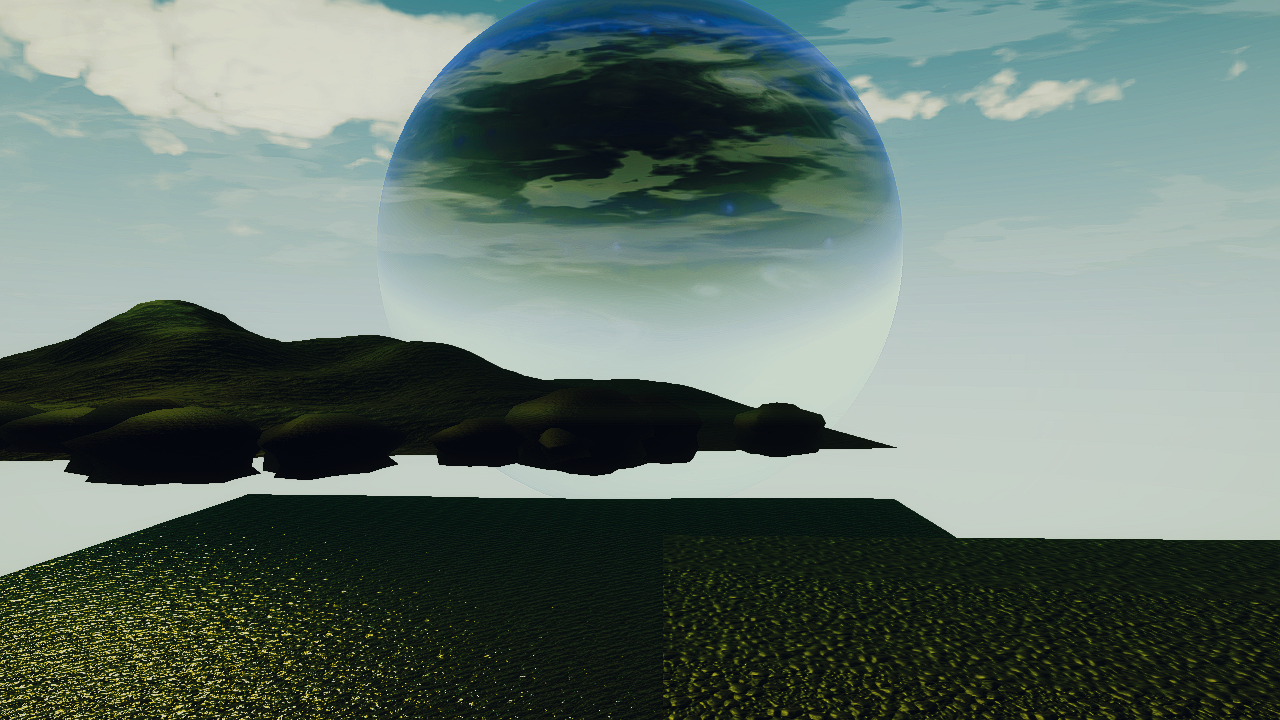
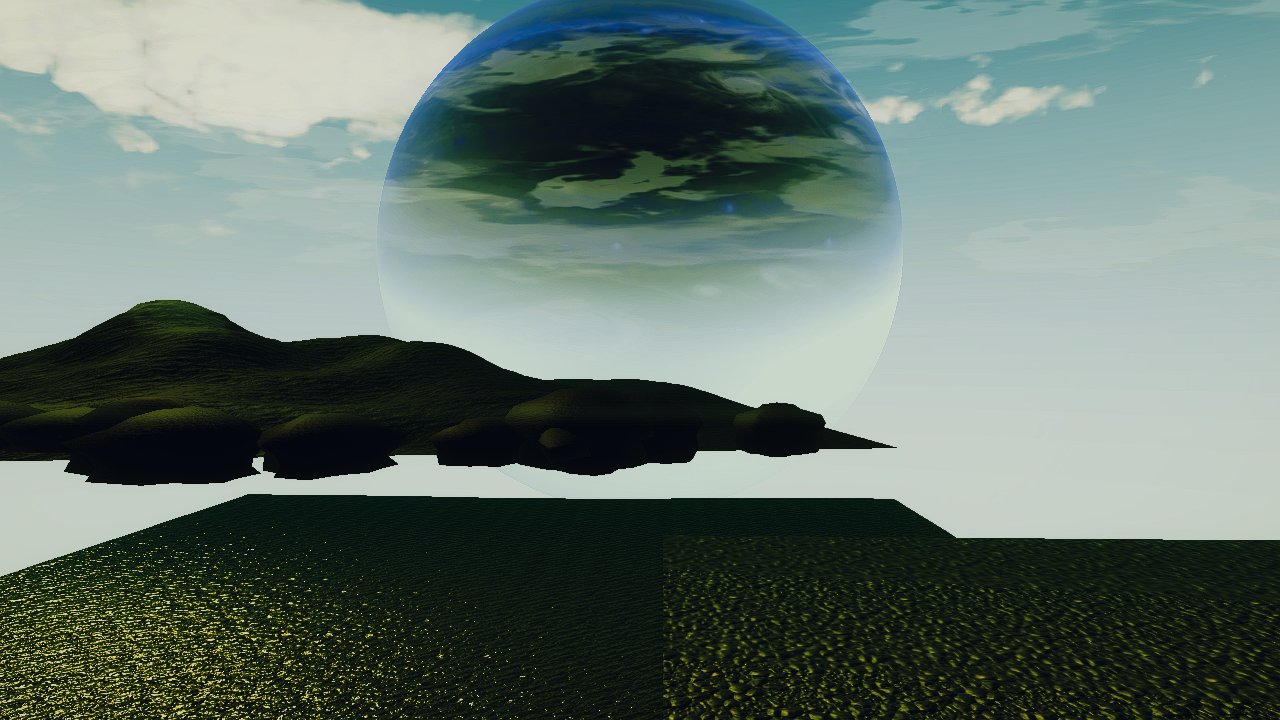
chore: checkpoint runtime dump updates

diff --git a/Tools/AppliedLorePublicationGuard.py b/Tools/AppliedLorePublicationGuard.py
@@ -6,10 +6,14 @@ import re
 import sys
 from pathlib import Path
 
-TARGET_LOCALES = (
-    "en_US", "ru_RU", "ja_JP", "zh_CN", "fr_FR", "es_ES", "de_DE",
-    "pl_PL", "uk_UA", "ar_SA", "id_ID", "ko_KR", "he_IL", "pt_BR", "nl_NL"
-)
+try:
+    from AppliedLoreImporter import TARGET_LOCALES as IMPORTED_TARGET_LOCALES
+except ModuleNotFoundError:
+    from Tools.AppliedLoreImporter import TARGET_LOCALES as IMPORTED_TARGET_LOCALES
+
+
+TARGET_LOCALES = tuple(IMPORTED_TARGET_LOCALES)
+INDEX_PAGE_NAMES = {"INDEX.md"}
 
 REQUIRED_KEYS = [
     "packet_id", "release_set_id", "article_id", "unlock_id",
@@ -66,9 +70,27 @@ def extract_frontmatter(content: str) -> tuple[dict, str]:
             fm[k.strip()] = v.strip().strip("'\"")
     return fm, body
 
+def parse_packet_globs(packet_glob: str) -> tuple[str, ...]:
+    return tuple(part.strip() for part in packet_glob.split(",") if part.strip())
+
+def matches_packet_glob(path: Path, packet_id: str, patterns: tuple[str, ...]) -> bool:
+    if not patterns:
+        return True
+
+    candidates = [packet_id, path.stem]
+    for pattern in patterns:
+        for candidate in candidates:
+            if candidate and fnmatch.fnmatch(candidate, pattern):
+                return True
+    return False
+
+def strip_generated_comments(text: str) -> str:
+    return re.sub(r"<!--.*?-->", "", text, flags=re.DOTALL).strip()
+
 def run_guard(root: Path, packet_glob: str, json_output: bool):
     counters = Counters()
     messages = []
+    packet_globs = parse_packet_globs(packet_glob)
     
     def log_fail(msg, counter_attr=None):
         if counter_attr:
@@ -90,8 +112,12 @@ def run_guard(root: Path, packet_glob: str, json_output: bool):
         files.extend(list(site_path.rglob("*.md")))
         
     packets = {}
+    packet_surface_locales = {}
     
     for f in files:
+        if f.name in INDEX_PAGE_NAMES:
+            continue
+
         rel = f.relative_to(root)
         try:
             content = f.read_text(encoding="utf-8")
@@ -102,14 +128,8 @@ def run_guard(root: Path, packet_glob: str, json_output: bool):
         fm, body = extract_frontmatter(content)
         packet_id = fm.get("packet_id", "")
         
-        if packet_glob and packet_id:
-            matched = False
-            for glob in packet_glob.split(','):
-                if fnmatch.fnmatch(packet_id, glob.strip()):
-                    matched = True
-                    break
-            if not matched:
-                continue
+        if not matches_packet_glob(f, packet_id, packet_globs):
+            continue
             
         counters.files += 1
         
@@ -142,12 +162,14 @@ def run_guard(root: Path, packet_glob: str, json_output: bool):
         surface = "external_site" if "external_site" in str(rel) else "in_game_wiki"
         if packet_id:
             packets.setdefault(packet_id, {}).setdefault(locale, {})[surface] = (fm, body, rel)
+            packet_surface_locales.setdefault(packet_id, {}).setdefault(surface, set()).add(locale)
 
-    for packet_id, locales_map in packets.items():
-        if "en_US" in locales_map:
-            missing_locales = [l for l in TARGET_LOCALES if l not in locales_map]
-            if missing_locales:
-                log_fail(f"Packet {packet_id}: Missing TARGET_LOCALES: {missing_locales}", "locale_gaps")
+    for packet_id, surface_map in packet_surface_locales.items():
+        for surface, locales in surface_map.items():
+            if "en_US" in locales:
+                missing_locales = [l for l in TARGET_LOCALES if l not in locales]
+                if missing_locales:
+                    log_fail(f"Packet {packet_id} surface {surface}: Missing TARGET_LOCALES: {missing_locales}", "locale_gaps")
 
     for packet_id, locales_map in packets.items():
         for locale, surfaces in locales_map.items():
@@ -155,7 +177,9 @@ def run_guard(root: Path, packet_glob: str, json_output: bool):
                 site_fm, site_body, site_rel = surfaces["external_site"]
                 wiki_fm, wiki_body, wiki_rel = surfaces["in_game_wiki"]
                 
-                if site_body and site_body == wiki_body:
+                site_body_norm = strip_generated_comments(site_body)
+                wiki_body_norm = strip_generated_comments(wiki_body)
+                if site_body_norm and site_body_norm == wiki_body_norm:
                     is_draft = ("draft" in site_fm.get("localization_status", "").lower() or 
                                 "draft" in wiki_fm.get("localization_status", "").lower())
                     if is_draft:

diff --git a/Assets/_Project/Scripts/Tools/WfcLaserCutRuntime.cs b/Assets/_Project/Scripts/Tools/WfcLaserCutRuntime.cs
@@ -24,6 +24,7 @@ namespace Hecton8.Tools
         private const int BlackBoxDumpHeaderBytes = 32;
         private const int WfcTelemetryEntrySizeBytes = 96;
         private const string DumpRelativePath = "Docs/AgentLogs/Dump_SHINOBU_225.bin";
+        private const string DumpPayloadLabel = "WfcLaserCutTelemetryDumpPayload";
         private const uint SourceHash = 0x544C5352u; // TLSR
         private const uint SparkSpeciesHash = 0x4C53504Bu; // LSPK
         private const byte TelemetryFlagCompleted = 1 << 0;
@@ -620,7 +621,11 @@ namespace Hecton8.Tools
             NativeArray<byte> payload = default;
             try
             {
-                payload = new NativeArray<byte>(byteCount, Allocator.Temp, NativeArrayOptions.ClearMemory);
+                payload = NativeFaultDumpWriter.CreateTransientPayload(
+                    byteCount,
+                    nameof(WfcLaserCutRuntime),
+                    DumpPayloadLabel,
+                    NativeArrayOptions.ClearMemory);
                 byte* destination = (byte*)NativeArrayUnsafeUtility.GetUnsafeBufferPointerWithoutChecks(payload);
                 int writeCursor = 0;
                 WriteUInt32LittleEndian(destination, ref writeCursor, BlackBoxDumpMagic);
@@ -650,8 +655,10 @@ namespace Hecton8.Tools
             }
             finally
             {
-                if (payload.IsCreated)
-                    payload.Dispose();
+                NativeFaultDumpWriter.DisposeTransientPayload(
+                    ref payload,
+                    nameof(WfcLaserCutRuntime),
+                    DumpPayloadLabel);
             }
         }
 

diff --git a/Assets/_Project/Scripts/Tools/LaserCutterDodRuntime.cs b/Assets/_Project/Scripts/Tools/LaserCutterDodRuntime.cs
@@ -22,6 +22,7 @@ namespace Hecton8.Tools
         private const int BlackBoxDumpHeaderBytes = 32;
         private const int LaserCutTelemetryEntrySizeBytes = 128;
         private const string DumpRelativePath = "Docs/AgentLogs/Dump_SHINOBU_225.bin";
+        private const string DumpPayloadLabel = "LaserCutterDodTelemetryDumpPayload";
         private const uint LaserGlowDecalDamageType = global::Hecton8.Visor.DynamicDecalMaterialHashes.Burn;
 
         private static IDataVault _dataVault;
@@ -1377,7 +1378,10 @@ namespace Hecton8.Tools
                 WriteUIntLittleEndian(header.Slice(28, 4), (uint)payloadBytes);
 
                 byte* source = (byte*)NativeArrayUnsafeUtility.GetUnsafeReadOnlyPtr(telemetry);
-                NativeArray<byte> payload = new NativeArray<byte>(totalBytes, Allocator.Temp, NativeArrayOptions.UninitializedMemory);
+                NativeArray<byte> payload = NativeFaultDumpWriter.CreateTransientPayload(
+                    totalBytes,
+                    nameof(LaserCutterDodRuntime),
+                    DumpPayloadLabel);
                 try
                 {
                     for (int i = 0; i < header.Length; i++)
@@ -1392,7 +1396,10 @@ namespace Hecton8.Tools
                 }
                 finally
                 {
-                    payload.Dispose();
+                    NativeFaultDumpWriter.DisposeTransientPayload(
+                        ref payload,
+                        nameof(LaserCutterDodRuntime),
+                        DumpPayloadLabel);
                 }
             }
             catch (IOException)

diff --git a/Docs/Reports/AssetSystem_20260605/ASSET_WORKER_BOARD_20260605.md b/Docs/Reports/AssetSystem_20260605/ASSET_WORKER_BOARD_20260605.md
@@ -24,7 +24,7 @@ This board is orchestration state, not Unity acceptance. It does not prove impor
 - Integrated Boyle, Mill, and Averroes static packets 21/22/23. They are owner routing packets only; no Unity/import/prefab/audio runtime proof was produced.
 - Local controller completed the token-failed matrix wave: material file technical properties, model import risk matrix, texture duplicate/hash matrix, and audio loudness/source dynamics matrix. Static CSV parse after integration: 29 files, 2094 rows, zero empty cells.
 - Local controller completed the static GUID reference graph: `Docs/AssetAudit/ASSET_GUID_REFERENCE_MATRIX_20260605.md/.csv`. CSV parses as 7420 rows.
-- Local controller completed active-route GUID triage: `Docs/AssetAudit/ASSET_GUID_ACTIVE_ROUTE_TRIAGE_20260605.md/.csv`. CSV parses as 800 rows. Current curated static CSV parse after GUID, P0 target-table, file-map, routing-synthesis, owner-packet-index, visual-reference critique, current visual-reference path continuity, VREF-to-owner requirement matrix, visual source promotion execution queue, h8_1475 shotlist/proof dependency graph, h8_1475 proof-tool integrity blocker routing, visual proof capture guardrail validation, visual reference-vs-current rejection matrix, premium approximation rename triage, audio P0 execution refinement, audio route owner matrix, audio mix-priority decision queue, audio critical cue coverage matrix, Batch31 channel-semantics decision queue, foam-contact source role decision queue, VFX DataVault source-context correction, VFX repair anchor map, Biolum black-box route decision, visual hero source coverage matrix, large source owner review, product-face execution refinement, waveform stats, static audio ledger, audio remediation matrix, and early owner packet map integration is 62 files, 14646 rows, zero empty cells. Sparse Batch31 import-intent CSV remains outside that zero-empty set.
+- Local controller completed active-route GUID triage: `Docs/AssetAudit/ASSET_GUID_ACTIVE_ROUTE_TRIAGE_20260605.md/.csv`. CSV parses as 800 rows. Current curated static CSV parse after GUID, P0 target-table, file-map, routing-synthesis, owner-packet-index, visual-reference critique, current visual-reference path continuity, VREF-to-owner requirement matrix, visual source promotion execution queue, h8_1475 shotlist/proof dependency graph, h8_1475 proof-tool integrity blocker routing, visual proof capture guardrail validation, visual reference-vs-current rejection matrix, premium approximation rename triage, audio P0 execution refinement, audio route owner matrix, audio mix-priority decision queue, audio critical cue coverage matrix, Batch31 channel-semantics decision queue, foam-contact source role decision queue, VFX DataVault source-context correction, VFX repair anchor map, DataVault execution-surface recheck, Biolum black-box route decision, visual hero source coverage matrix, large source owner review, product-face execution refinement, waveform stats, static audio ledger, audio remediation matrix, and early owner packet map integration is 62 files, 14646 rows, zero empty cells. Sparse Batch31 import-intent CSV remains outside that zero-empty set.
 - Local controller completed unreferenced GUID cleanup-review triage: `Docs/AssetAudit/ASSET_GUID_UNREFERENCED_SOURCE_TRIAGE_20260605.md/.csv`. CSV parses as 3488 rows. It is not deletion authorization.
 - Integrated target-table wave for owners 24-33: product-face material P0 rows `124`, prefab P0 rows `39`, audio P0 rows `6`, `h8_1475` readback manifest rows `123`, visual capture gaps `7`.
 - Integrated owner packets 34-37 and P0 target-table routing synthesis: active route triage packet, unreferenced cleanup-review packet, h8_1475 proof execution packet, anti-false-proof alignment packet, and `ASSET_P0_TARGET_TABLE_ROUTING_SYNTHESIS_20260605.md/.csv`.

diff --git a/Docs/Orchestration/ORCHESTRATOR_NIGHT_20260605.md b/Docs/Orchestration/ORCHESTRATOR_NIGHT_20260605.md
@@ -6421,7 +6421,7 @@ Validation:
 Current state:
 
 - VFX DataVault source-context correction is now reachable from the asset front entry points.
-- MarineSnow line `1347` remains runtime scratch debt; MarineSnow line `2005` remains editor/offline wake-profile scratch.
+- MarineSnow line `2005` remains editor/offline wake-profile scratch; latest VFX P0 synthesis says the runtime mock wake/propwash scratch appears DataVault-rewritten on disk and still needs scanner, compile, Unity, GC/profiler, and dump proof.
 - Biolum black-box owner-local mirror has source decision fields present at `BiolumPulseSyncRuntime.cs:311-315`; compile, Unity, GC/profiler, scanner recheck, and deterministic dump artifact proof remain absent.
 - Visual hero source coverage remains `STATIC_IMAGE_QA_ONLY`; no import, material binding, screenshot, Frame Debugger, memory, or visual acceptance exists.
 - Status remains `PENDING VERIFICATION`.
@@ -6505,7 +6505,7 @@ Current state:
 
 - Biolum owner-local black-box mirrors are no longer classified as source-comment repair pending; source decision fields are present by static source readback.
 - Remaining Biolum blockers: scanner recheck, compile, Unity, GC/profiler, deterministic runtime dump artifact proof.
-- MarineSnow runtime scratch debt and PlasmaBeam fault-route review debt remain open.
+- MarineSnow current DataVault rewrite must be preserved and proved; PlasmaBeam fault-route review debt remains open.
 - Status remains `PENDING VERIFICATION`.
 
 ## 2026-06-05 Orchestrator P0 Synthesis Integration Cursor 85

diff --git a/Docs/Reports/AssetSystem_20260605/ASSET_FRONT_CONTROLLER_SYNTHESIS_20260605.md b/Docs/Reports/AssetSystem_20260605/ASSET_FRONT_CONTROLLER_SYNTHESIS_20260605.md
@@ -238,6 +238,8 @@ Static only:
 - `VFX_DATAVAULT_REPAIR_ANCHOR_MAP_20260605.csv` parses as 11 rows; repair anchor map only, no runtime source repair, Unity proof, GC/profiler proof, or dump artifact acceptance.
 - `BIOLUM_BLACKBOX_ROUTE_DECISION_20260605.csv` parses as 4 rows; source decision/readback only, no compile proof, Unity proof, GC/profiler proof, or runtime dump artifact acceptance.
 - `VISUAL_HERO_SOURCE_COVERAGE_MATRIX_20260605.csv` parses as 10 rows; source coverage matrix only, no import, material binding, screenshot, Frame Debugger, memory, or visual acceptance.
+- `VISUAL_SOURCE_PROMOTION_EXECUTION_QUEUE_20260605.csv` parses as 10 rows; execution queue only, no import, material binding, screenshot, Frame Debugger, memory, or visual acceptance.
+- `python Tools/ValidateAssetStaticSummary.py --summary Docs/Reports/AssetSystem_20260605/ASSET_STATIC_VALIDATION_SUMMARY_20260605.md` returns `ASSET_STATIC_VALIDATION_SUMMARY_OK files=62 rows=14646`; `python -m unittest Tools/test_validate_asset_static_summary.py` runs 4 tests OK. This proves static summary consistency only, not Unity/runtime readiness.
 - `audio_preview_waveform_stats_20260605.csv` parses as 11 rows; waveform proof-adjacent stats only, no listening proof.
 - `audio_asset_ledger.csv` parses as 138 rows; static audio ledger only, no import/runtime/Addressables proof.
 - `audio_remediation_matrix_20260605.csv` parses as 58 rows; remediation queue only, no runtime mix proof.

diff --git a/Docs/Reports/AssetSystem_20260605/ASSET_STATIC_VALIDATION_SUMMARY_20260605.md b/Docs/Reports/AssetSystem_20260605/ASSET_STATIC_VALIDATION_SUMMARY_20260605.md
@@ -91,6 +91,7 @@ The direct `Docs/AssetAudit` root currently contains `58` CSV files; `53` direct
 ## Static Hygiene Result
 
 - CSV parse hygiene: 62 files parse with zero empty cells.
+- Summary validator hygiene: `python Tools/ValidateAssetStaticSummary.py --summary Docs/Reports/AssetSystem_20260605/ASSET_STATIC_VALIDATION_SUMMARY_20260605.md` returned `ASSET_STATIC_VALIDATION_SUMMARY_OK files=62 rows=14646`; `python -m unittest Tools/test_validate_asset_static_summary.py` ran 4 tests OK. This is static summary consistency only.
 - Encoding hygiene: scoped replacement-character scan returned `0` in the latest run.
 - Diff hygiene: scoped `git diff --check` returned no whitespace errors in the latest run; Git reported CRLF normalization warnings only.
 - Language hygiene: current proof-language hits are negative caveats, evidence-boundary phrasing, or section headings; no Unity/runtime/visual/audio acceptance claim is accepted from this static pass.
